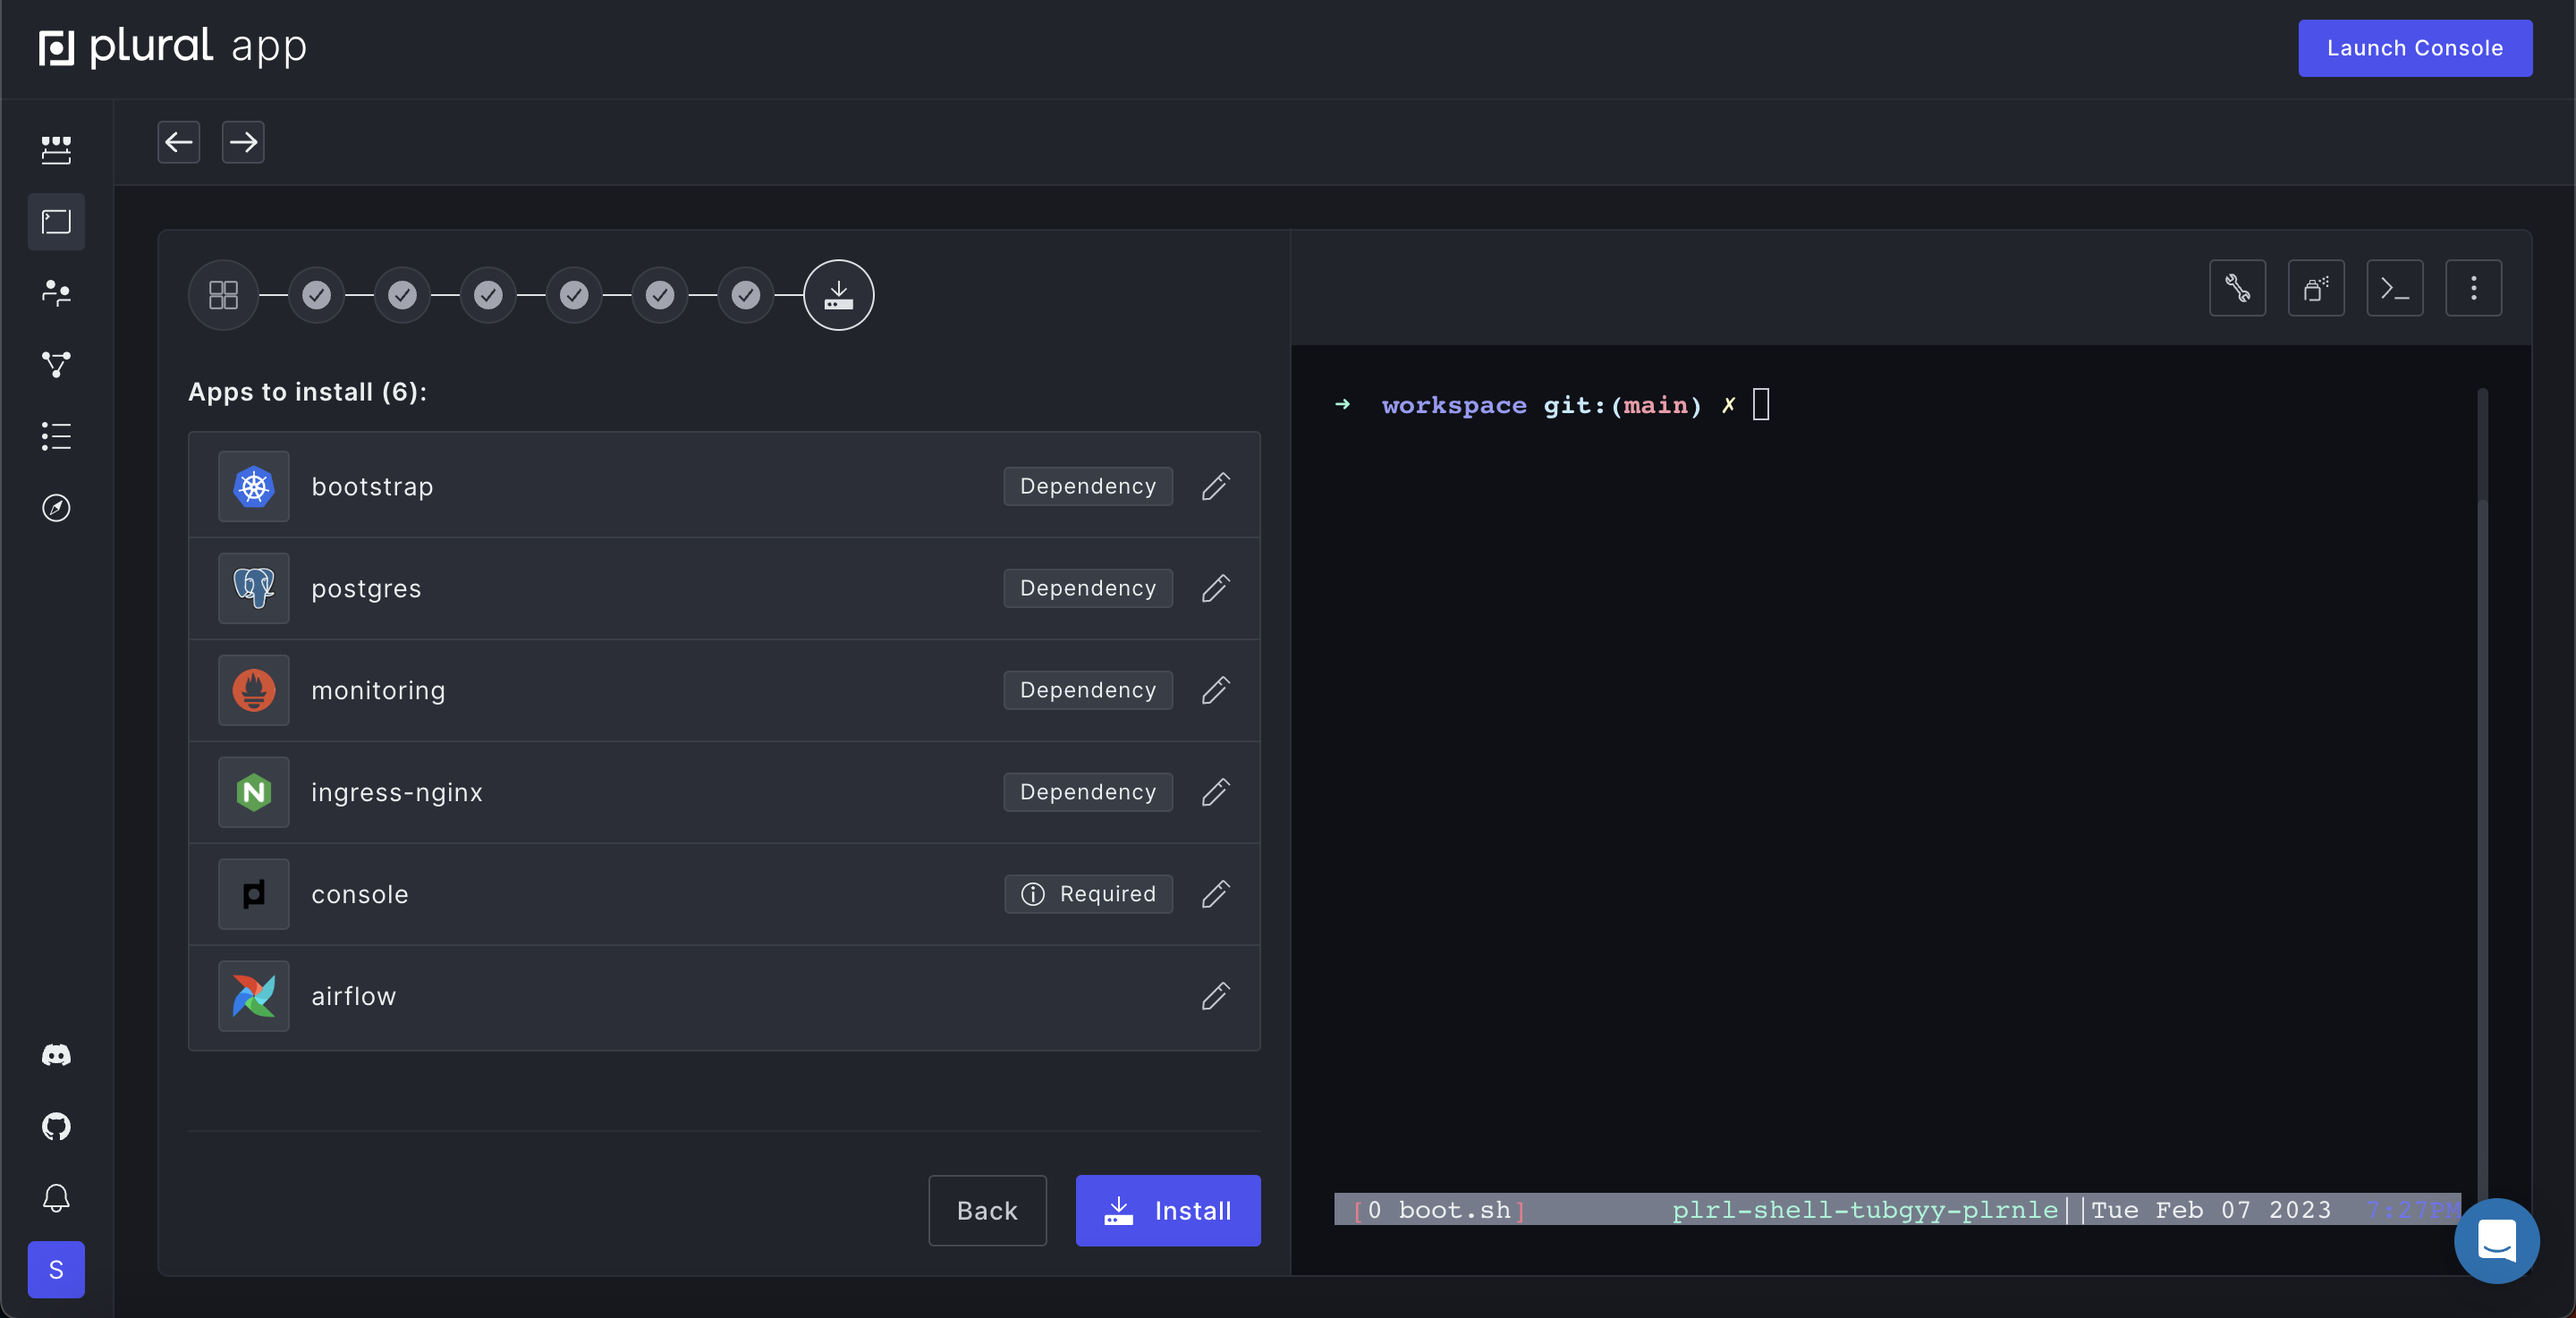
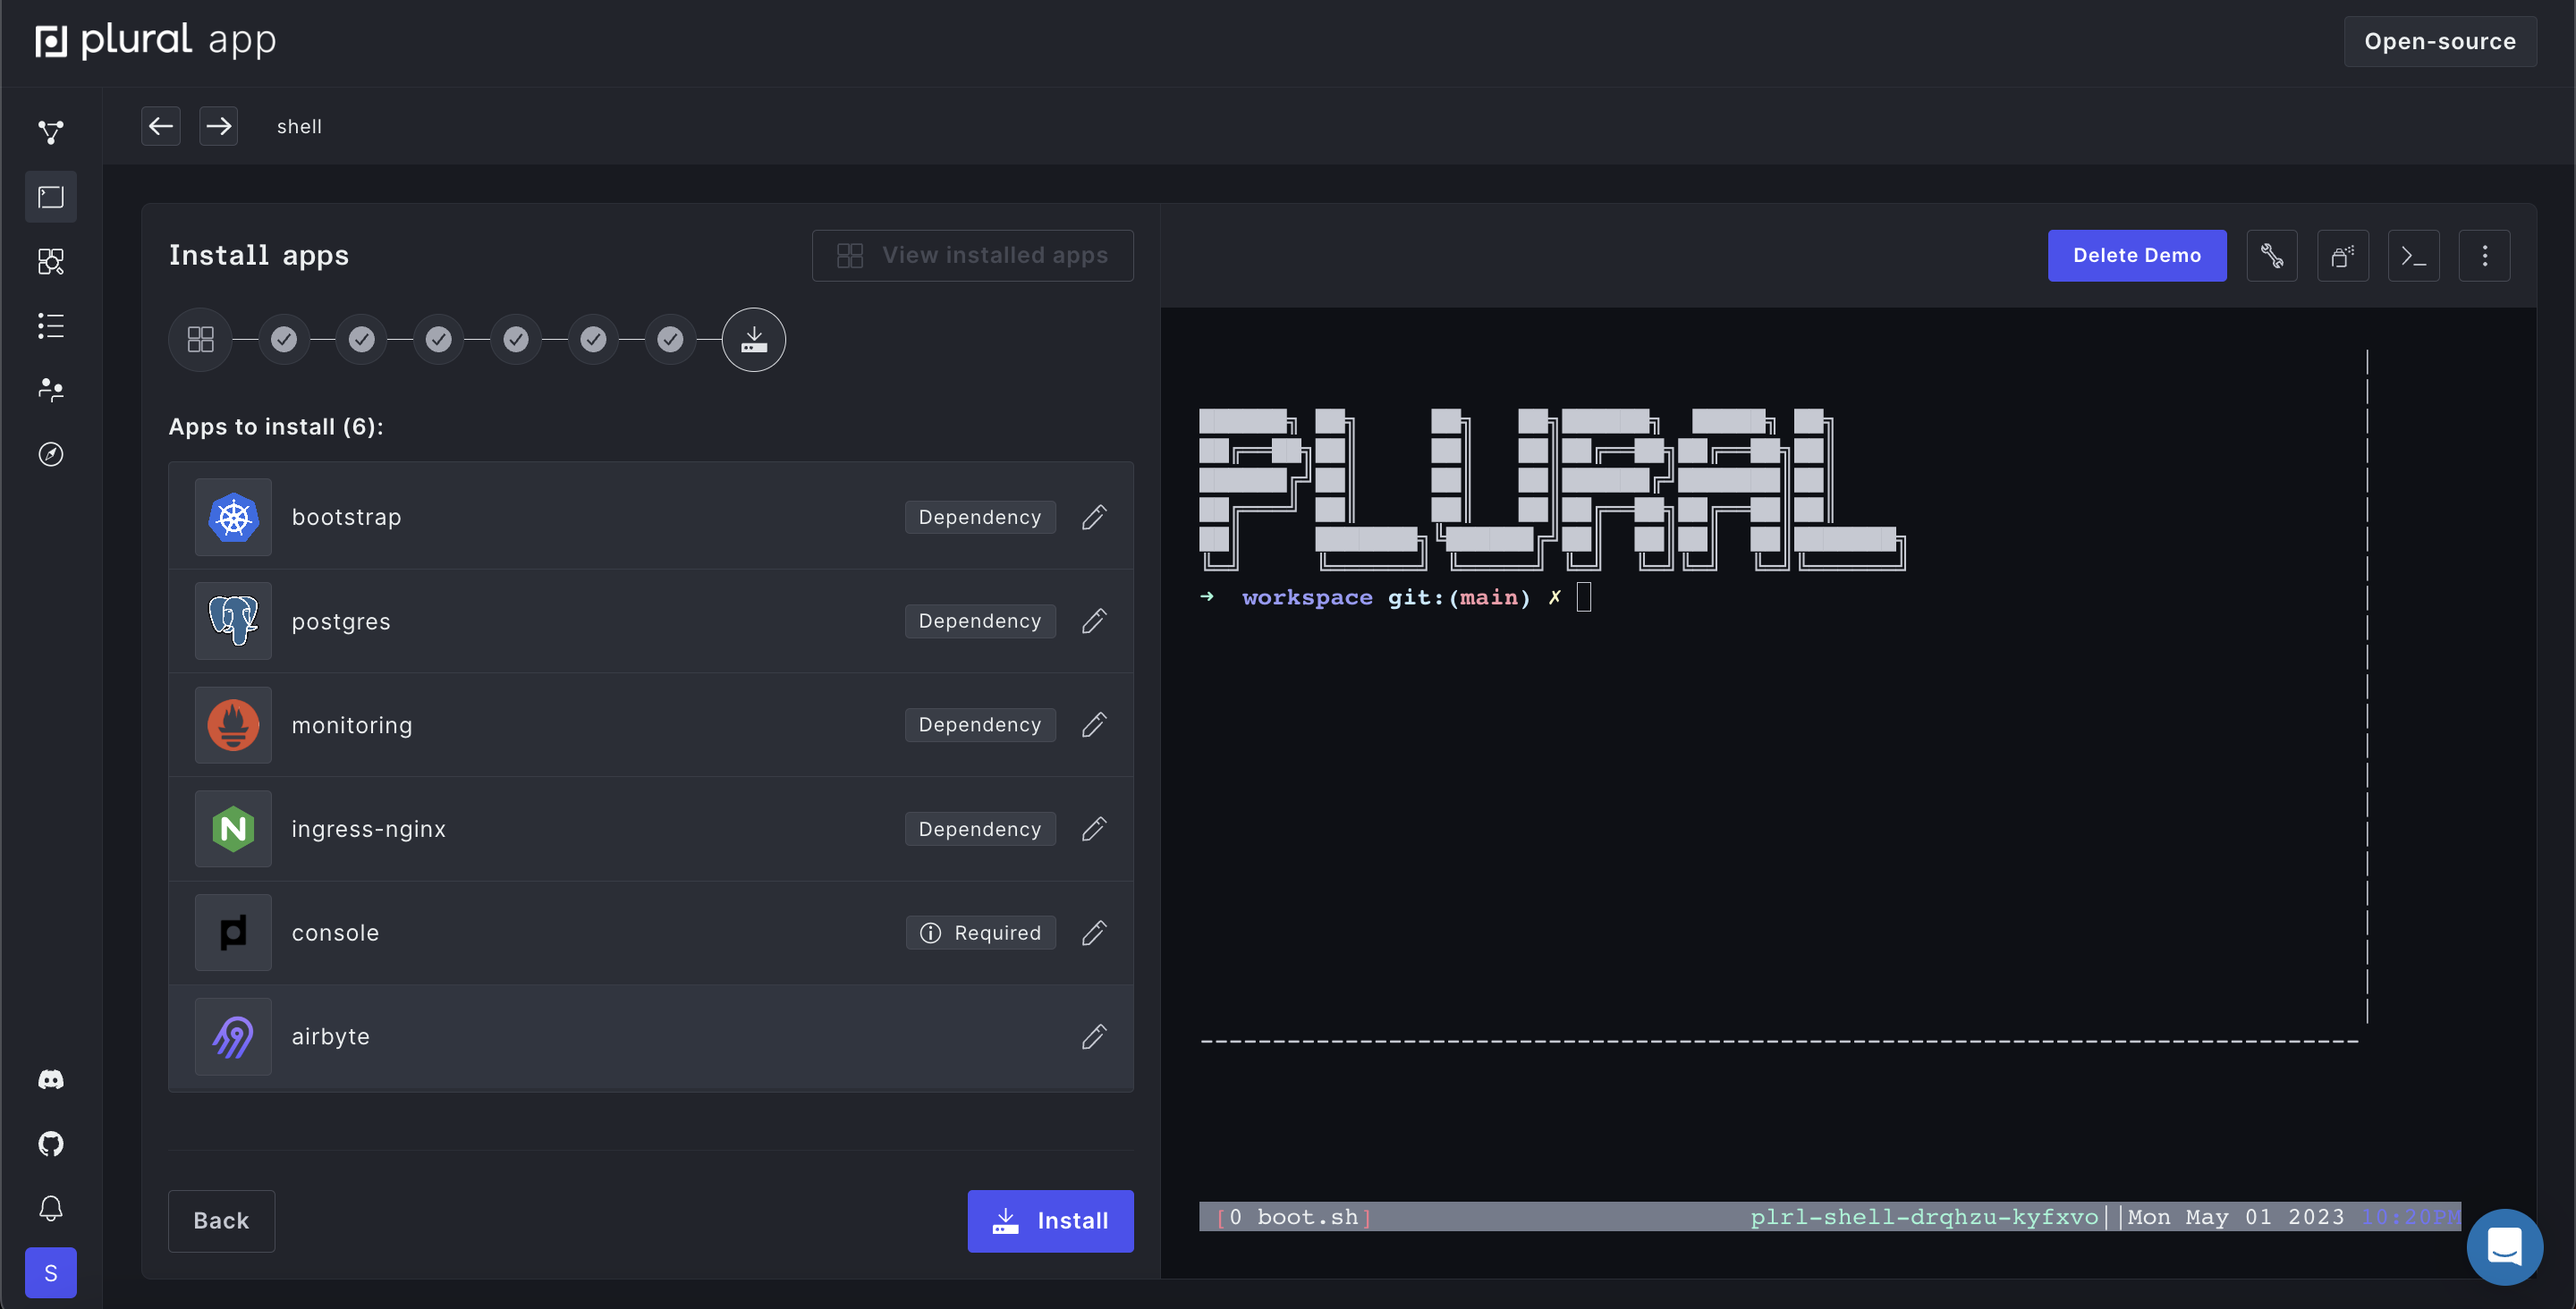
updated cloud shell quickstart for mcm

diff --git a/pages/getting-started/cloud-shell-quickstart.md b/pages/getting-started/cloud-shell-quickstart.md
@@ -16,17 +16,17 @@ in under 30 minutes, all within your browser.
 
 ## Login and Create the Plural Repository
 
-Head over to [app.plural.sh](https://app.plural.sh) and set up an account.
-
-Navigate to [app.plural.sh/shell](https://app.plural.sh/shell) to access the Cloud Shell (if this is your first time using app.plural.sh, you should be automatically redirected to the onboarding flow). You'll be prompted to OAuth with either GitHub or GitLab. We're just getting your permission to create a repository for Plural configuration on your behalf. Give your repository a name, being sure to select the right organization or individual account in the first box. Your repository name must be unique within your account, which will be checked before you can advance to the next step.
-
-![](/assets/cloud-shell-quickstart/github-config.png)
+Once you're logged in, you'll land on the Clusters Overview page. You can click on the "Start onboarding" button to kick off your onboarding process in your shell [app.plural.sh/shell](https://app.plural.sh/shell).
 
 ### Set up a Cloud Provider
 
-Choose the option to continue your setup in the browser. If you'd prefer to use the CLI, choose "Local terminal" and switch to the CLI quickstart.
+Choose either the option to set up Plural using your own cloud credentials, or try our free 6-hour GCP sandbox demo. If you use your own cloud credentials, choose our Cloud Shell setup option. If you'd prefer to use the CLI, choose "Local terminal" and switch to the CLI quickstart.
 
 ![](/assets/cloud-shell-quickstart/setup-options.png)
+
+You'll then be prompted to OAuth with either GitHub or GitLab. We're just getting your permission to create a repository for Plural configuration on your behalf. Give your repository a name, being sure to select the right organization or individual account in the first box. Your repository name must be unique within your account, which will be checked before you can advance to the next step.
+
+![](/assets/cloud-shell-quickstart/github-config.png)
 
 Plural can be set up on AWS, GCP, or Azure. You can provide your credentials in the following screen:
 
@@ -167,7 +167,7 @@ In the Install Wizard on the left-hand side of the screen, choose the applicatio
 
 You'll now be guided through a setup wizard for the applications you chose. For help with Plural Console configuration, refer to [this guide](/applications/console) for explanations on each step. For help with configuring Airflow, refer to [this guide](/applications/airflow). Required fields are indicated with a star and will appear in red until they've been populated. Many fields have default values populated; you can use those defaults or provide your own inputs. Any steps without required configuration will be auto-skipped.
 
-![](/assets/cloud-shell-quickstart/airflow-configuration.png)
+![](/assets/cloud-shell-quickstart/airbyte-configuration.png)
 
 After configuration, you'll be provided with an overview screen of exactly which applications will be installed. When you're happy with the configuration, click `Install` to proceed.
 
@@ -181,7 +181,7 @@ Now it's time for Plural to write all the Helm and Terraform required to bring u
 
 Now grab a coffee or your favorite hot beverage while we wait for your cloud provider to provision your infrastructure.
 
-When your applications are finished installing, you'll be able to see the domains for each application in the terminal window.
+When your applications are finished installing, you'll be able to see the domains for each application in the terminal window, and you can launch them once all components are ready.
 
 ![](/assets/cloud-shell-quickstart/application-domains.png)
 
